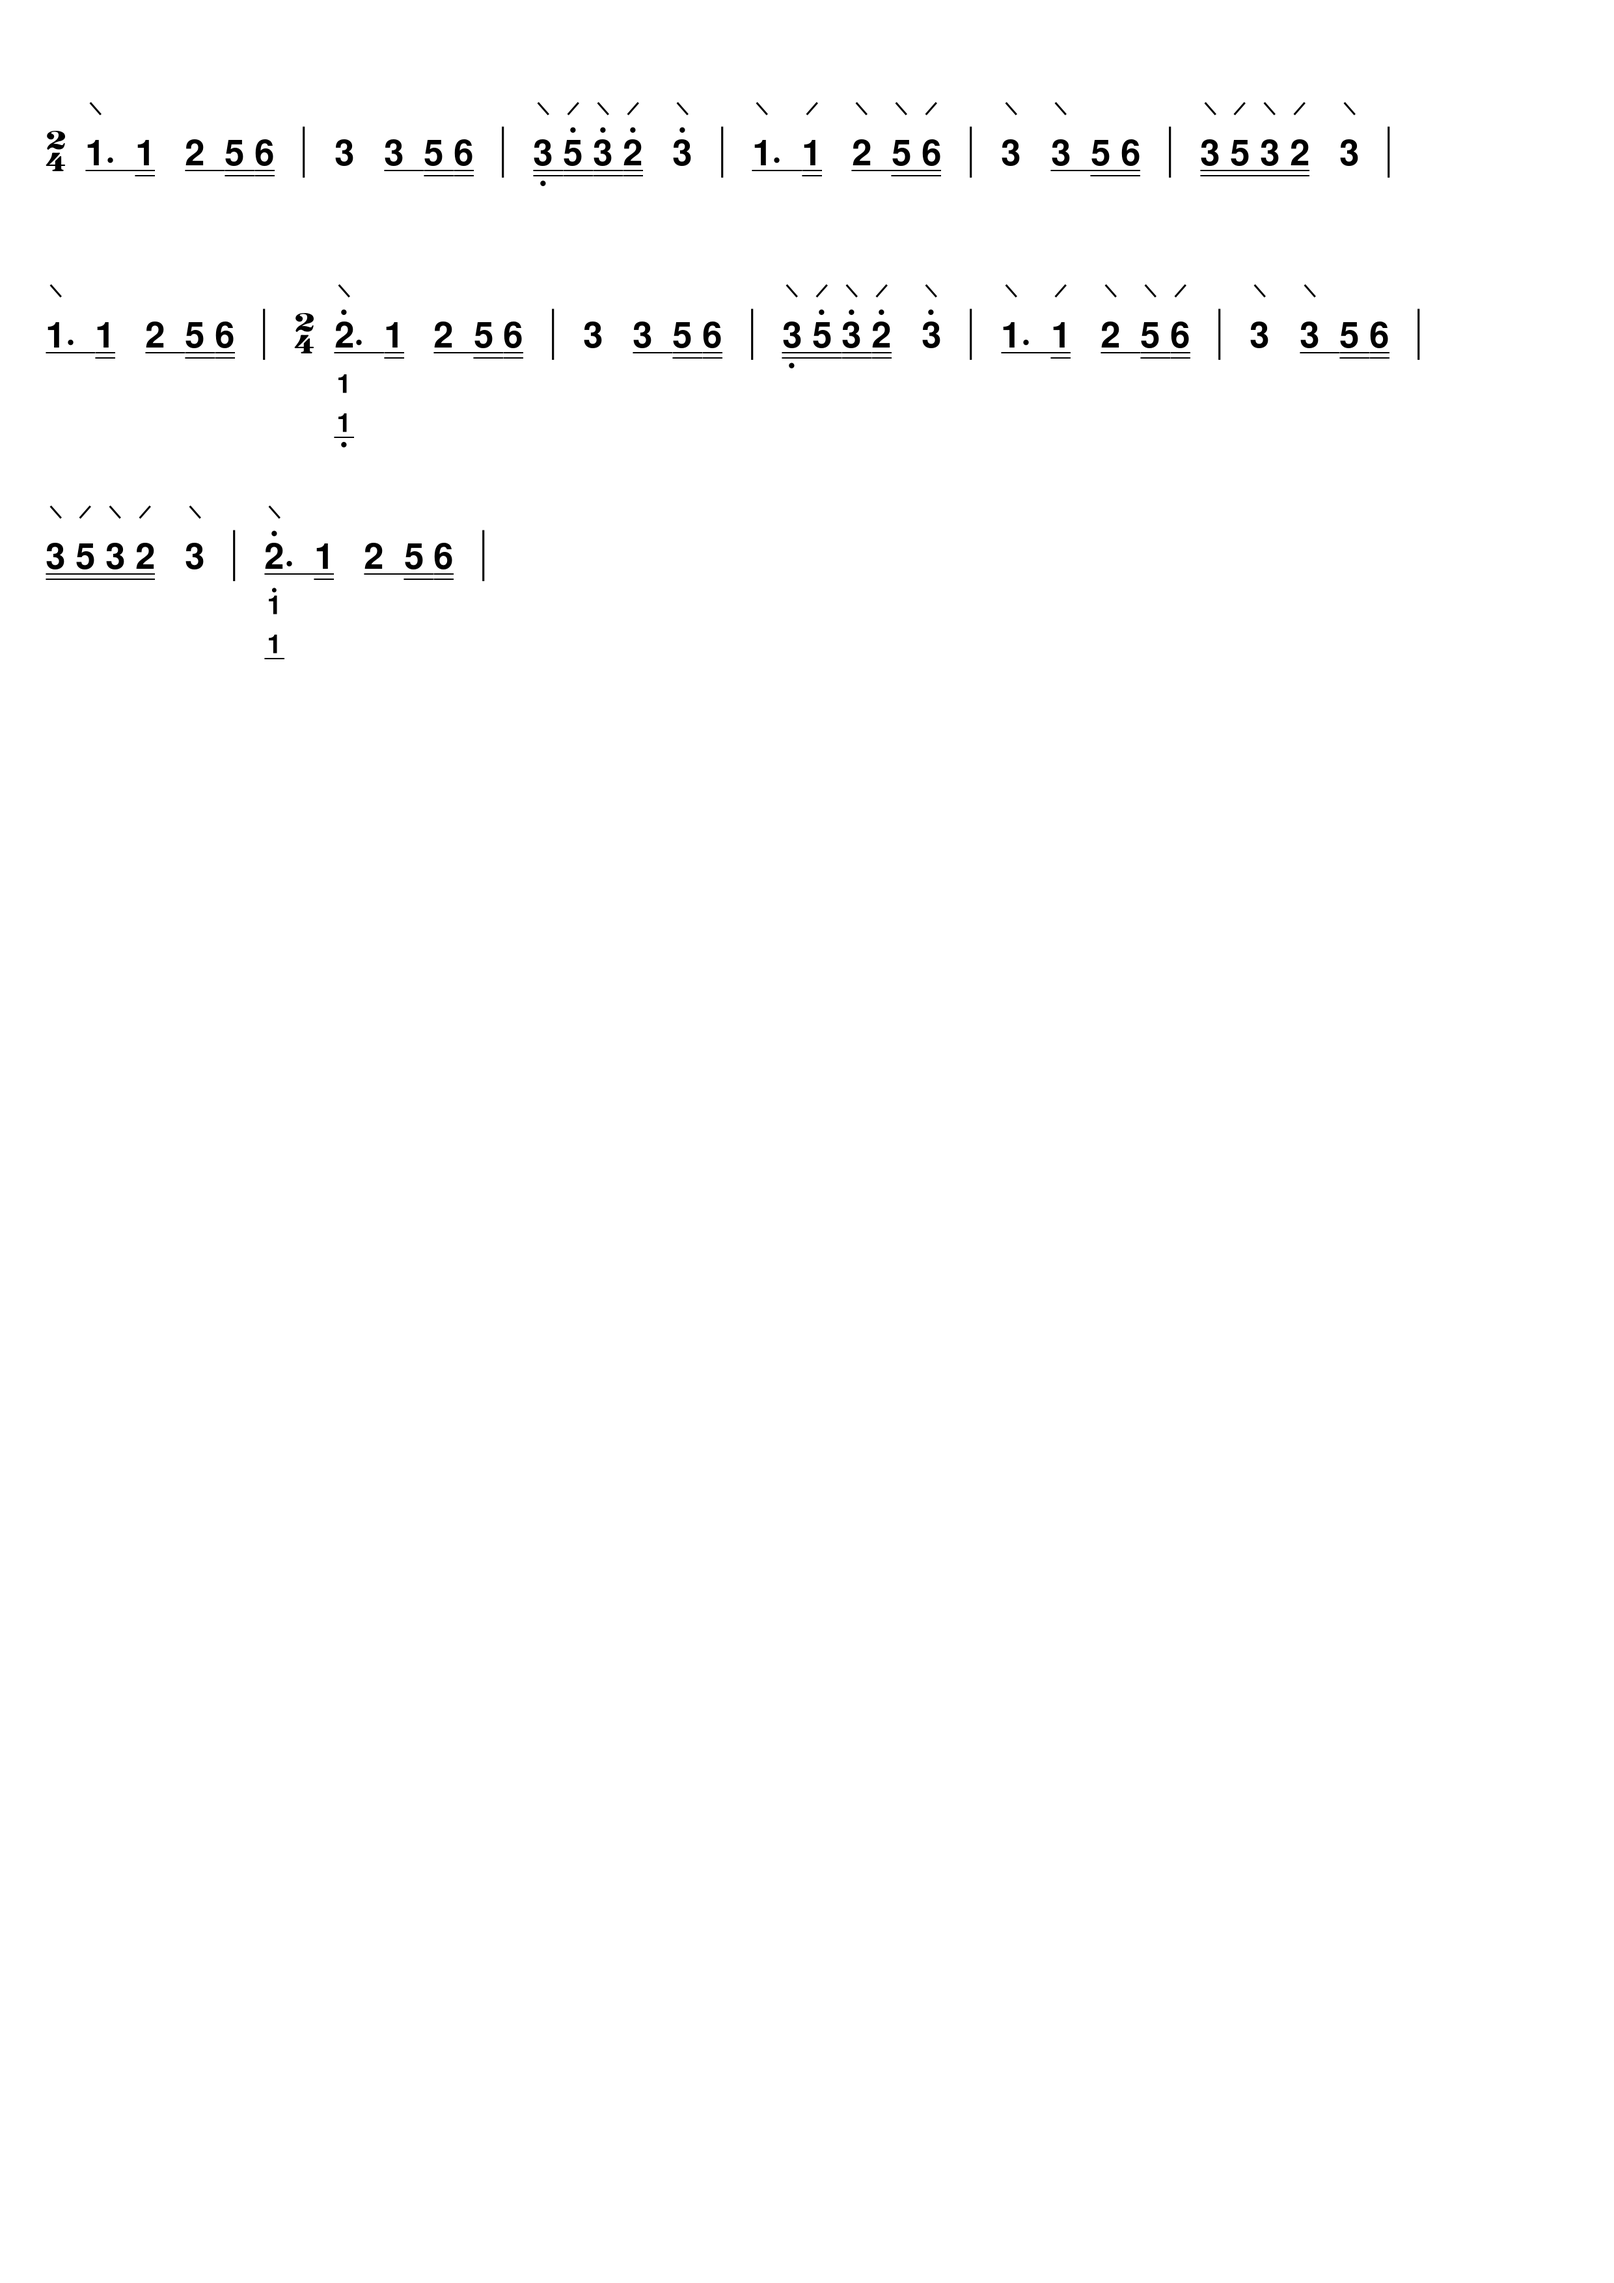
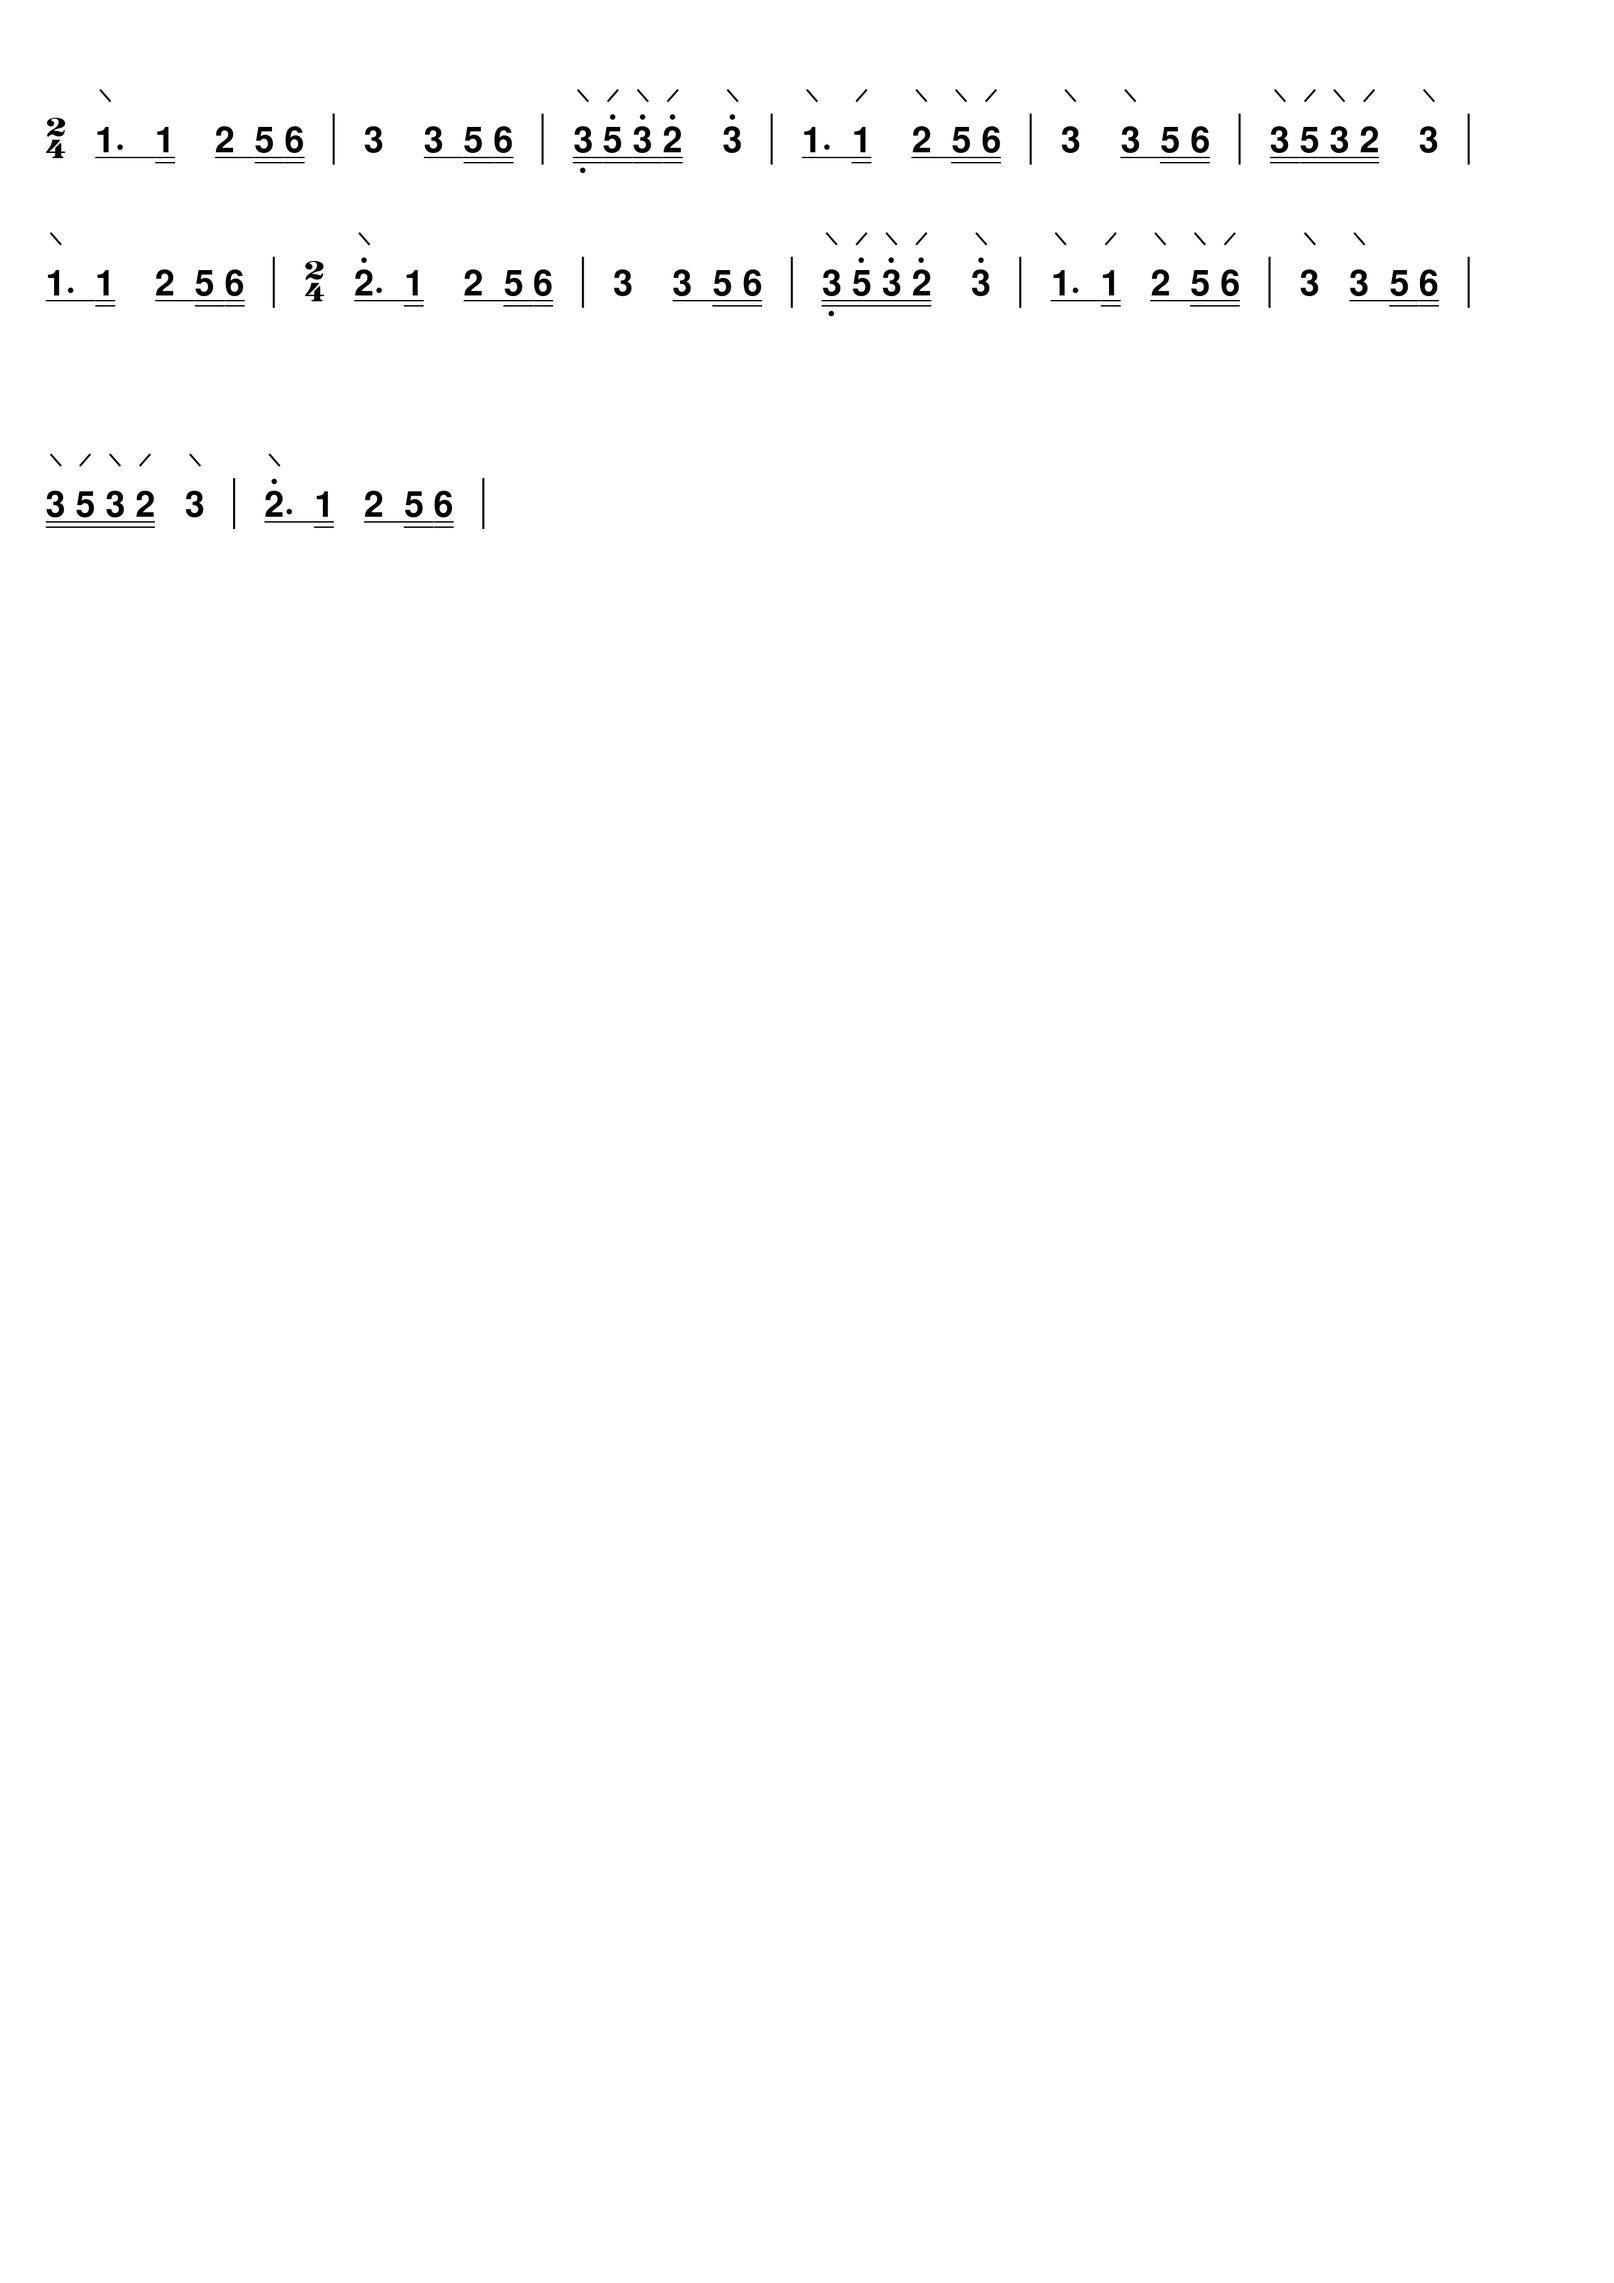
working-ish line generation and spacer adjustment

diff --git a/src/generate.py b/src/generate.py
@@ -17,8 +17,8 @@ def generate_str(file, paper_type='letter'):
 
     pl = get_primary(measured_w_bar)
     notes, bars, walloc, notes_orig = gen_primary_str(pl, measured_no_bar, cfg.paper_sizes[paper_type][0])
-    print(walloc)
-    all_final = []
+    
+    final_prelim = []
     aln_heights = []
     all_sublns = []
 
@@ -31,11 +31,16 @@ def generate_str(file, paper_type='letter'):
         pd = match_prim_dur(notes_lst, dg)
 
         tmp, aln_h = add_sym(notes[i], rr, helper=pd, return_as_str=False)
-        final = ''.join(element_wise_sum(tmp, pd))
-        all_final.append(final)
+        final = element_wise_sum(tmp, pd)
+        final_prelim.append(final)
         aln_heights.append(aln_h)
 
+    print(final_prelim)
+    all_final, mnb_lines = combine_measures(final_prelim, measured_no_bar, bars, walloc, paper_type=paper_type)
+
+    for j, mnb in enumerate(mnb_lines):
         ca = chords_arranged(mnb)
+
         len_ca = len(ca)
         sublns = []
         sb_prim = ca[0]
@@ -47,14 +52,89 @@ def generate_str(file, paper_type='letter'):
         all_sublns.append(sublns)
     
     # build lines
+    # all_final = compress_spaces(all_final)
+    # print(all_final, '\n')
+    # print(all_sublns)
 
+    # all_final = [''.join(i) for i in all_final]
+    # all_sublns = [[''.join(j) for j in i] if len(i) != 0 else [] for i in all_sublns]
 
     return all_final, all_sublns, aln_heights
 
-def combine_measures(primary, bars, walloc, sublns, paper_type='letter'):
+def combine_measures(primary, measures, bars, walloc, paper_type='letter'):
+    """
+    Combines measures into lines of the target length.
+    """
 
-    def edit_spacing(ln):
-        pass
+    def compress_spaces(msrs):
+        """
+        Compresses editable spaces into one element in the array.
+        """
+        comp = []
+        for _, msr in enumerate(msrs):
+            cp_tmp = []
+            curr_comp, num_comp = '', 0
+            for _, n in enumerate(msr):
+                n_set = set(v for v in n)
+                if n_set.issubset(cfg.editable_spaces): curr_comp += n; num_comp += 1
+                elif curr_comp != '':
+                    cp_tmp += [curr_comp, n]
+                    curr_comp, num_comp = '', 0
+                else:
+                    cp_tmp.append(n)
+            comp.append(cp_tmp)
+        return comp
+
+    def editable_spaces(cpmsrs):
+        """
+        Returns dictionary of editable spaces. Spaces are grouped in arrays depending on whether they are connected or not.
+        """
+        idx = {0: [], 1: [], 2: []}
+        for i, msr in enumerate(cpmsrs):
+            curr_group = ''
+            group_spaces = []
+            for j, n in enumerate(msr):
+                n_set = set(v for v in n)
+                n_set_nospace = set(v for v in n if v != ' ')
+                if n_set.issubset(cfg.editable_spaces):
+                    curr_space = list(n_set_nospace)[0] if len(n_set_nospace) != 0 else ' '
+                    if curr_space == curr_group: group_spaces.append((i, j))
+                    elif len(group_spaces) != 0:
+                        idx[cfg.editable_sym[curr_group]].append((curr_group, group_spaces))
+                        curr_group = curr_space
+                        group_spaces = [(i, j)]
+                    else:
+                        curr_group = curr_space
+                        group_spaces = [(i, j)]
+                else: continue
+            if len(group_spaces) != 0: idx[cfg.editable_sym[curr_group]].append((curr_group, group_spaces))
+        return idx
+
+    def edit_spacing(prim, edtb, to_expand):
+        """
+        Add spaces to reach target line length.
+        """
+        num_spaces_to_add = int(to_expand / cfg.space_base_width)
+        print(num_spaces_to_add)
+        
+        useable = [j[1] for _, i in edtb.items() for j in i if len(i) != 0]
+        useable_sym = [j[0] for _, i in edtb.items() for j in i if len(i) != 0]
+
+        i_use, len_use = 0, len(useable)
+
+        passes = 0
+        while num_spaces_to_add > 0:
+            curr_spaces = useable[i_use]
+            if num_spaces_to_add >= len(curr_spaces):
+                for i, j in curr_spaces:
+                    sym_tmp = useable_sym[i_use] if useable_sym[i_use] != ' ' else ''
+                    prim[i][j] += ' ' + sym_tmp
+                    num_spaces_to_add -= 1
+            if i_use < len_use - 1: i_use += 1
+            else: i_use = 0
+            passes += 1
+
+        return prim
 
     margin = cfg.side_margin[paper_type]
     target_width = cfg.paper_sizes[paper_type][0] - margin*2
@@ -62,29 +142,54 @@ def combine_measures(primary, bars, walloc, sublns, paper_type='letter'):
     curr_line_width = 0
 
     plines = []
-    slines = []
+    measured_lns = []
 
     for i, p_ln in enumerate(primary):
         add_w = walloc[i] + cfg.space_base_width*6
 
-        if curr_line_width + add_w == target_width: opt = 0
-        if curr_line_width != 0 and curr_line_width + add_w < target_width: opt = 1
-        elif curr_line_width == 0 and curr_line_width + add_w < target_width: opt = 2
-        elif abs(curr_line_width + add_w - target_width) < abs(curr_line_width - target_width): opt = 3
-        else: opt = 4
-
-        if opt == 1 or opt == 3:
-            plines[-1] += [' ']*2 + p_ln + [' ']*2 + [bars[i]]
-            slines[-1] += [' ']*2 + sublns[i] + [' ']*4
-            curr_line_width += add_w + cfg.space_base_width*6
+        if len(plines) == 0: opt = 0
+        elif curr_line_width + add_w == target_width: opt = 1
+        elif curr_line_width + add_w < target_width: opt = 2
+        elif abs(curr_line_width + add_w - target_width) < abs(curr_line_width - target_width):
+            opt = 3; to_expand = curr_line_width + add_w - target_width
         else:
-            plines.append(p_ln + [' ']*2 + [bars[i]])
-            slines.append(sublns[i] + [' ']*4)
-            curr_line_width += add_w - cfg.space_base_width*2
-        
-        if opt == 3: plines[-1], slines[-1] = edit_spacing(plines[-1], slines[-1])
-        elif opt == 4: plines[-2], slines[-2] = edit_spacing(plines[-2], slines[-2])
+            opt = 4; to_expand = target_width - curr_line_width
 
+        if opt in {1, 2}:
+            plines[-1] += [p_ln]
+            measured_lns[-1] += [measures[i]]
+            curr_line_width += add_w
+        elif opt == 3:
+            plines[-1] += [p_ln]
+            measured_lns[-1] += [measures[i]]
+            curr_line_width = 0
+        else:
+            plines.append([p_ln])
+            measured_lns.append([measures[i]])
+            curr_line_width = add_w - cfg.space_base_width*2
+
+        # if opt == 3:
+        #     cp_plines = compress_spaces(plines[-1])
+        #     print(cp_plines)
+        #     ed_plines = editable_spaces(cp_plines)
+        #     plines[-1] = edit_spacing(cp_plines, ed_plines, to_expand)
+        #     curr_line_width = 0
+        if opt == 4:
+            cp_plines = compress_spaces(plines[-2])
+            ed_plines = editable_spaces(cp_plines)
+            plines[-2] = edit_spacing(cp_plines, ed_plines, to_expand)
+    
+    i_bar = 0
+    lines_fin = []
+    for line in plines:
+        line_str = ''
+        for j, measure in enumerate(line):
+            if j == 0: line_str += ''.join(measure) + '  ' + bars[i_bar]
+            else: line_str += '  ' + ''.join(measure) + '  ' + bars[i_bar]
+            i_bar += 1
+        lines_fin.append(line_str)
+
+    return lines_fin, measured_lns
 
 def write_to_paper(y, in_file, out_file, paper_type='letter', gen_txt_files=False):
     x = cfg.side_margin[paper_type]

diff --git a/src/config.py b/src/config.py
@@ -53,6 +53,9 @@ one_param = directions | tie_slur | dynamics | {'ddot', 'dot', 'trem', 'grace'}
 two_param = {'time', 'fing'} | octaves
 n_param = duration | {'group'}
 
+editable_spaces = {u'\u0307', u'\u0305', u'\u0306', u'\u0304', ' '}
+max_edit_passes = 4
+
 sym_factor = {'bar': 2,
               'dbar': 2,
               'lebar': 2,
@@ -100,6 +103,12 @@ sym = {'bar': '|',
        'big_space': '!'}
 
 sym_opp = {v: k for k, v in sym.items()}
+
+editable_sym = {u'\u0307': 2,
+                u'\u0306': 1,
+                u'\u0305': 2,
+                u'\u0304': 1,
+                ' ': 0}
 
 loct_info = {u'\u0305', u'\u0304'}
 oct_sym = {-2: {0: u'\u030D', 1: u'\u0309', 2: u'\u030B'},
